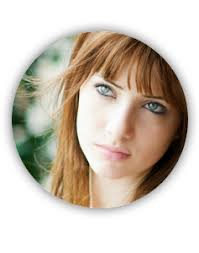
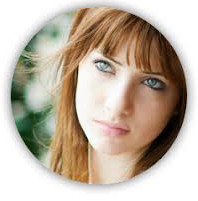
Profile and demo pages complete

diff --git a/app/src/Profile.js b/app/src/Profile.js
@@ -1,11 +1,5 @@
 import React, { Component } from 'react'
-
-class IconButton extends Component {
-  render(props) {
-    return <button className="icon">{this.props.label}</button>;
-  }
-}
-
+import ProfileImage from './ProfileImage'
 
 class Profile extends Component {
   constructor(props) {
@@ -16,7 +10,79 @@ class Profile extends Component {
   }
   render() {
     return (
-      <h1>O</h1>
+      <div>
+        <div className="row">
+          <div className="col-sm-6"  style={{marginTop: 50, marginBottom: 50}}>
+            <ProfileImage />
+          </div>
+          <div className="col-sm-6 center"  style={{marginTop: 80}}>
+            <h1>Maria</h1>
+            <p>Workstation: Puree Machine</p>
+            <p>Developmental Edge: Not enough experience. Learn how to problem solve better to help my co-workers.</p>
+          </div>
+        </div>
+        <div className="row">
+          <div className="col-sm-12">
+            <h3 className="left">Pinned Interaction</h3>
+          </div>
+        </div>
+        <hr />
+        <div className="row">
+          <div className="col-sm-2">
+            <img src="http://icons.iconarchive.com/icons/mattahan/ultrabuuf/256/TV-Blue-Dr-Who-icon.png" width="64" height="64" alt="Avatar" />
+          </div>
+          <div className="col-sm-2">
+            <h3>Dr Who. Wrote: </h3>
+          </div>
+          <div className="col-sm-8">
+            <div className="row">
+              <div className="col-sm-12">
+                <h3 className="left">Maria was very creative and helped me fix a problem that was going to destroy the universe as we know it. She showed problem solving skills, was pleasant, and new how to manage herself even in tough situations.</h3>
+              </div>
+              <div className="col-sm-8">
+                <p><b>Creativity, helpful, problem solving, self management, Experience</b></p>
+              </div>
+              <div className="col-sm-1">
+                <p><b>20 Snaps</b></p>
+              </div>
+              <div className="col-sm-2">
+                <p>Jan 29 2018</p>
+              </div>
+            </div>
+          </div>
+        </div>
+        {this.props.responses.map((tag, idx)=> {
+          return (
+            <div key={idx} style={{marginLeft: 30, marginRight: 30}} className="row underline_item">
+              <div className="col-sm-2">
+                <img src={tag.imageUrl} width="64" height="64" alt="Avatar" />
+              </div>
+              <div className="col-sm-3">
+                <h3>{tag.name} Wrote: </h3>
+              </div>
+              <div className="col-sm-7">
+                <div className="row">
+                  <div className="col-sm-12">
+                    <h3 className="left">{tag.description}</h3>
+                  </div>
+                  <div className="col-sm-8">
+                    <p><b>{tag.annotation}</b></p>
+                  </div>
+                  <div className="col-sm-1">
+                    <p><b>{tag.snaps} Snaps</b></p>
+                  </div>
+                  <div className="col-sm-1">
+                  </div>
+                  <div className="col-sm-2">
+                    <p>{tag.datePosted}</p>
+                  </div>
+                </div>
+              </div>
+            </div>
+          )
+        })}
+
+      </div>
     )
   }
 }

diff --git a/app/src/ProfileContainer.js b/app/src/ProfileContainer.js
@@ -7,14 +7,30 @@ import Profile from './Profile'
 // } from './actions'
 
 const mapStateToProps = state => {
-  // return {
-  //   following: Object.keys(state.follows).map(userHash => {
-  //     return {
-  //       userHash,
-  //       handle: state.handles[userHash]
-  //     }
-  //   })
-  // }
+  return {
+    responses: [{
+      "imageUrl": "/img/maria.png",
+      "name": "Mario",
+      "description": "Maria was very pleasant and generous today.",
+      "snaps":12,
+      "annotation": "Genorosity, Mutuality, Pleasant",
+      "datePosted": "2 minutes ago"
+    },{
+      "imageUrl": "http://mitchellsfrontpage.com/wp-content/uploads/2015/01/rwV6Ec891.jpeg",
+      "name": "Berry",
+      "description": "I had to leave early for a work emergency.",
+      "snaps":3,
+      "annotation": "Self management, Pleasant, creative, Mutuality",
+      "datePosted": "58 minutes ago"
+    },{
+      "imageUrl": "http://equipment-international.com/wp-content/uploads/2014/03/milnor-md-50v-dryer.png",
+      "name": "Monika",
+      "description": "She did it!",
+      "snaps":2,
+      "annotation": "Self management, Logic",
+      "datePosted": "2 hours ago"
+    }]
+  }
 }
 
 const mapDispatchToProps = (dispatch) => {

diff --git a/app/src/Demonstration.js b/app/src/Demonstration.js
@@ -1,6 +1,6 @@
 import React, { Component } from 'react'
 import { Route, Link } from 'react-router-dom'
-import FontAwesome from 'react-fontawesome'
+var FontAwesome = require('react-fontawesome')
 
 class Demonstration extends Component {
   constructor(props) {
@@ -32,7 +32,16 @@ class Demonstration extends Component {
                     <p>ANYTHING NOTABLE?</p>
                     <div className="row">
                       <div className="col-xs-6">
-                        <Link to={''}><h4>No</h4></Link>
+                        <Link to={''}>
+                          <FontAwesome
+                            className="super-crazy-colors"
+                            name="rocket"
+                            size="2x"
+                            spin
+                            style={{ textShadow: '0 1px 0 rgba(0, 0, 0, 0.1)' }}
+                          />
+                          <h4>No</h4>
+                        </Link>
                       </div>
                       <div className="col-xs-6">
                         <Link to={''}><h4>Yes</h4></Link>

diff --git a/app/src/App.css b/app/src/App.css
@@ -97,7 +97,7 @@ button.continue {
   transition: all 0.3s cubic-bezier(.25,.8,.25,1);
   padding: 10px;
   display: flex;
-    align-items: center;
+  align-items: center;
 }
 
 .demo-list-item img {
@@ -110,6 +110,16 @@ button.continue {
 
 .center {
   margin: auto;
+}
+
+.vcenter {
+  display: flex;
+  align-items: center;
+}
+
+.underline_item {
+  border-bottom: 1px solid #CCC;
+  margin-top: 10px;
 }
 
 @keyframes App-logo-spin {

diff --git a/app/src/ProfileImage.js b/app/src/ProfileImage.js
@@ -1,0 +1,23 @@
+import React, { Component } from 'react'
+
+class ProfileImage extends Component {
+
+  constructor(props) {
+    super(props)
+    this.state = {
+      images: [{
+        imageUrl: "/img/maria.jpeg"
+      }]
+    };
+  }
+
+  render() {
+    return (
+      <div>
+        <img width="256" height="256" src={this.state.images[0].imageUrl} />
+      </div>
+    )
+  }
+}
+
+export default ProfileImage
